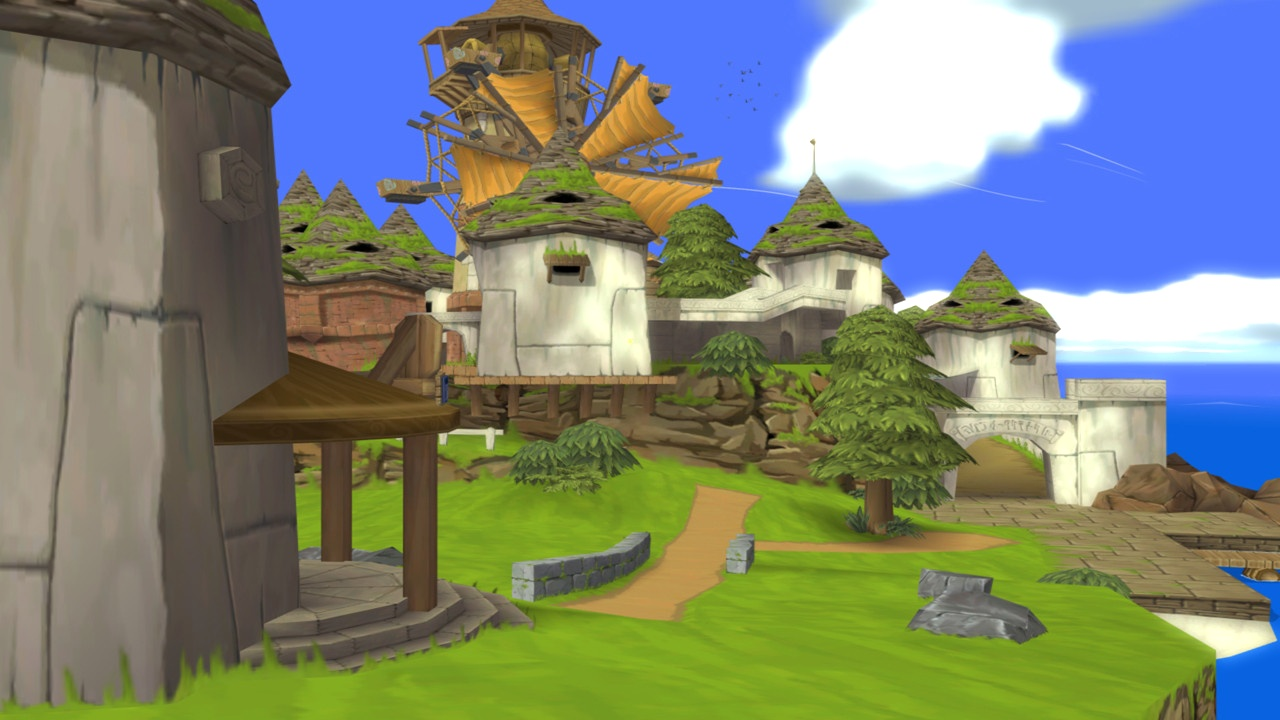
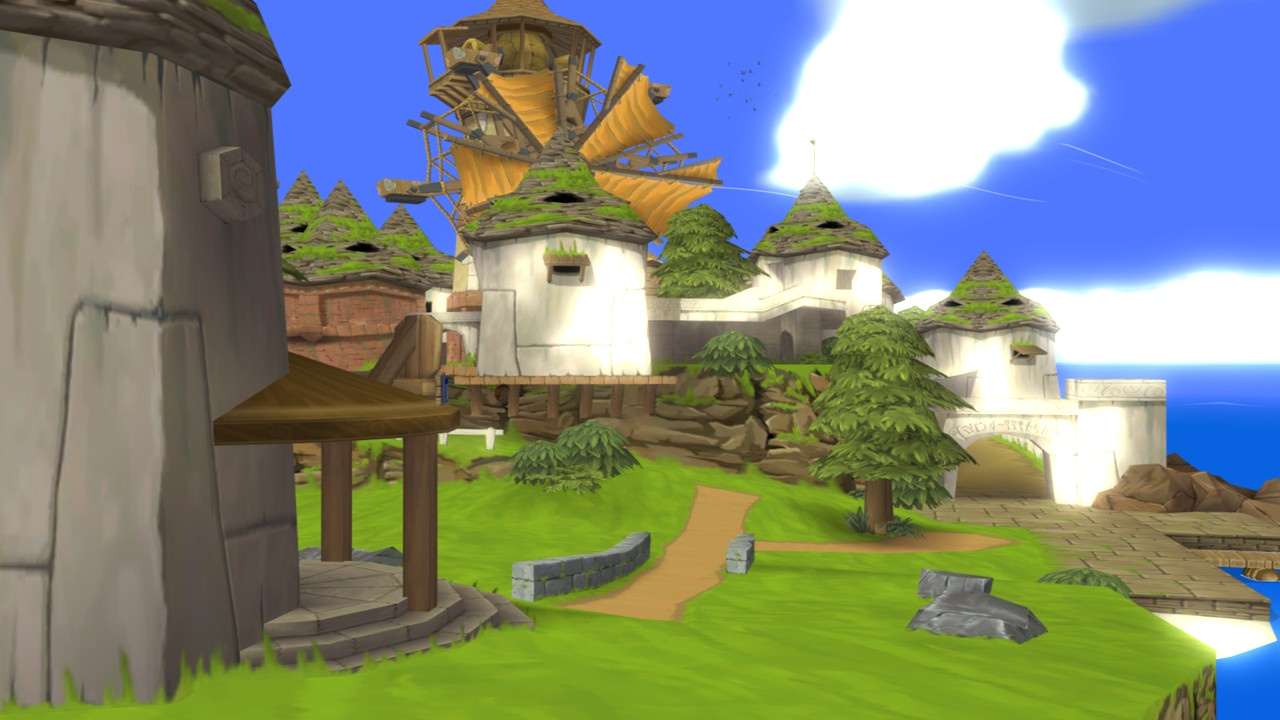
fix: Update 3-bloom with feedback

Changed region(s): [[0.3125, 0.3056, 1.0, 0.7333], [0.5938, 0.0, 0.875, 0.3056], [0.9062, 0.825, 1.0, 0.9472]]

diff --git a/3-bloom/main.py b/3-bloom/main.py
@@ -9,22 +9,27 @@ ALPHA = 1.0
 BETA = 0.5
 GAMMA = 0
 SIGMAS = [5, 10, 20]
-BLOOM_BOX_KERNEL_SIZE = 15
+BLOOM_BOX_KERNELS_SIZE = [15, 31, 45]
 BLOOM_BOX_ITERATIONS = 3
 
 
 def bright_pass_filter(img, threshold=180):
-    # Converte imagem para escala de cinza
+    # Converte a imagem para escala de cinza para facilitar a criação da máscara
     img_gray = cv2.cvtColor(img, cv2.COLOR_BGR2GRAY)
 
-    # Cria máscara com somente valores acima do threshold
-    mask = cv2.threshold(img_gray, threshold, 255, cv2.THRESH_TOZERO)[1]
+    # Cria uma máscara binária
+    # Pixels na imagem em escala de cinza com valor maior que o 'threshold' se tornam 255 (branco), e os outros se tornam 0 (preto)
+    _, mask = cv2.threshold(img_gray, threshold, 255, cv2.THRESH_BINARY)
 
-    # Expande máscara para 3 canais
-    mask_3c = cv2.merge([mask]*3)
+    # Expande a máscara de 1 canal (preto e branco) para 3 canais (RGB) para que seja compatível com a imagem colorida original
+    mask_3c = cv2.merge([mask, mask, mask])
+
+    # Usa a operação 'E' bit-a-bit (bitwise AND)
+    # Onde a máscara é branca (255), os pixels da imagem original são mantidos
+    # Onde a máscara é preta (0), os pixels da imagem original se tornam pretos, efetivamente "filtrando" as áreas escuras
     img_bright_pass = cv2.bitwise_and(img, mask_3c)
 
-    cv2.imwrite('bright-pass.jpg', img_bright_pass)    
+    cv2.imwrite('bright-pass.jpg', img_bright_pass)
     return img_bright_pass
 
 def apply_gaussian_bloom(img, img_bright_pass, sigmas=[5, 10, 20], alpha=1.0, beta=0.0, gamma=0):    
@@ -41,19 +46,28 @@ def apply_gaussian_bloom(img, img_bright_pass, sigmas=[5, 10, 20], alpha=1.0, be
     # Adiciona imagem borrada à imagem original com soma ponderada
     return cv2.addWeighted(img, alpha, img_blurred, beta, gamma)
 
+def apply_box_bloom(img, img_bright_pass, kernel_sizes=[15, 31, 45], iterations=3, alpha=1.0, beta=1.0, gamma=0):
+    # Converte a imagem de entrada para float para evitar perda de precisão durante as somas
+    img_float = img.copy().astype(np.float32)
+    blur_total = np.zeros_like(img_float)
 
-def apply_box_bloom(img, img_bright_pass, kernel_size=15, iterations=3, alpha=1.0, beta=0.0, gamma=0):
-    img_blurred = img_bright_pass.copy().astype(np.float32)
-
-    # Aplica filtro da média sucessivamente
-    for _ in range(iterations):
-        img_blurred = cv2.blur(img_blurred, (kernel_size, kernel_size))
+    # Itera sobre os diferentes tamanhos de kernel para simular sigmas maiores
+    for ksize in kernel_sizes:
+        # A cada iteração de ksize, começa o blur a partir do bright-pass original
+        img_blurred = img_bright_pass.copy().astype(np.float32)
+        
+        # Aplica o filtro da média (box blur) sucessivamente
+        for _ in range(iterations):
+            img_blurred = cv2.blur(img_blurred, (ksize, ksize))
+            
+        # Acumula o resultado de cada passe de blur
+        blur_total += img_blurred
 
     # Normaliza imagem
-    img_blurred = np.clip(img_blurred, 0, 255).astype(np.uint8)
+    bloom_effect = np.clip(blur_total, 0, 255).astype(np.uint8)
 
-    # Adciona imagem borrada à imagem original com soma ponderada
-    return cv2.addWeighted(img, alpha, img_blurred, beta, gamma)
+    # Adiciona imagem borrada à imagem original com soma ponderada
+    return cv2.addWeighted(img, alpha, bloom_effect, beta, gamma)
 
 def main():
     img = cv2.imread(IMAGE_INPUT)
@@ -81,7 +95,7 @@ def main():
     img_bloom_box = apply_box_bloom(
         img,
         img_bright_pass,
-        kernel_size=BLOOM_BOX_KERNEL_SIZE,
+        kernel_sizes=BLOOM_BOX_KERNELS_SIZE,
         iterations=BLOOM_BOX_ITERATIONS,
         alpha=ALPHA,
         beta=BETA,
